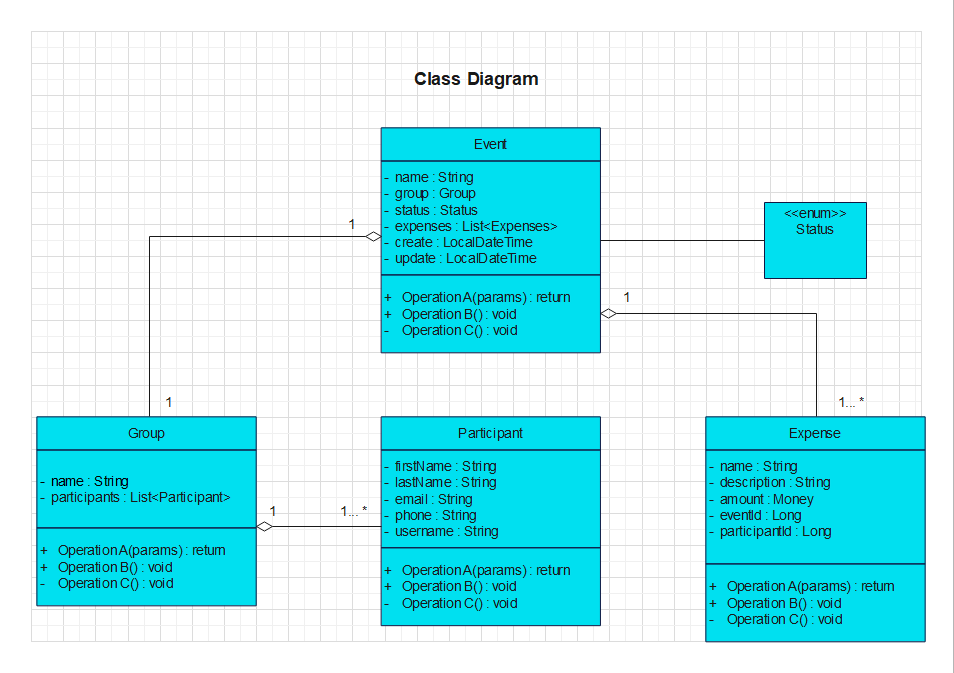
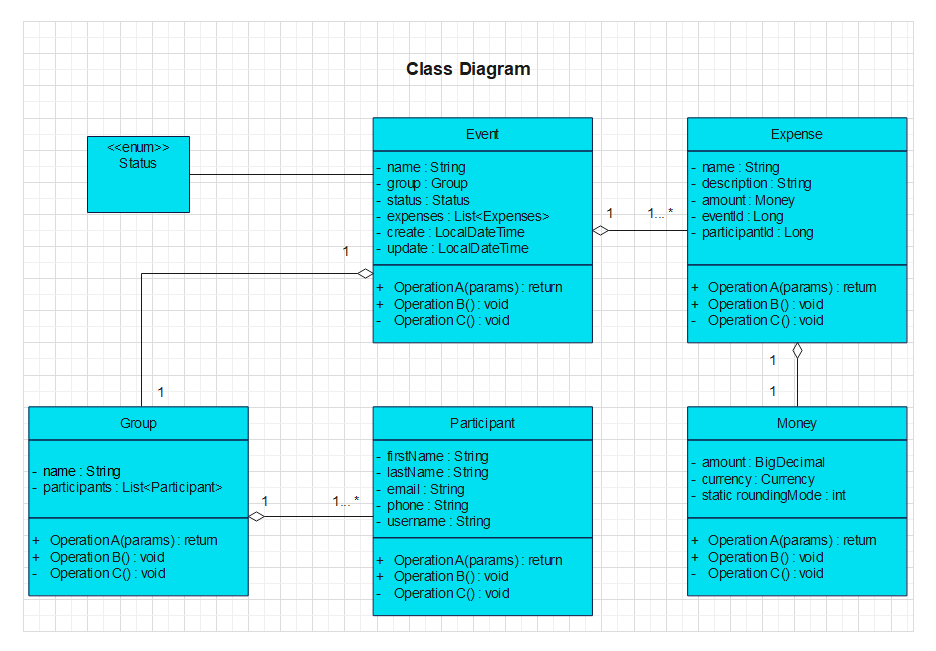
add Money class

diff --git a/src/main/java/ua/vholovetskyi/expensecalculator/expenses/model/Money.java b/src/main/java/ua/vholovetskyi/expensecalculator/expenses/model/Money.java
@@ -1,0 +1,14 @@
+package ua.vholovetskyi.expensecalculator.expenses.model;
+
+import java.math.BigDecimal;
+import java.util.Currency;
+
+public class Money {
+    private BigDecimal amount;
+    private Currency currency;
+
+    public Money(BigDecimal amount, Currency currency) {
+        this.amount = amount;
+        this.currency = currency;
+    }
+}
